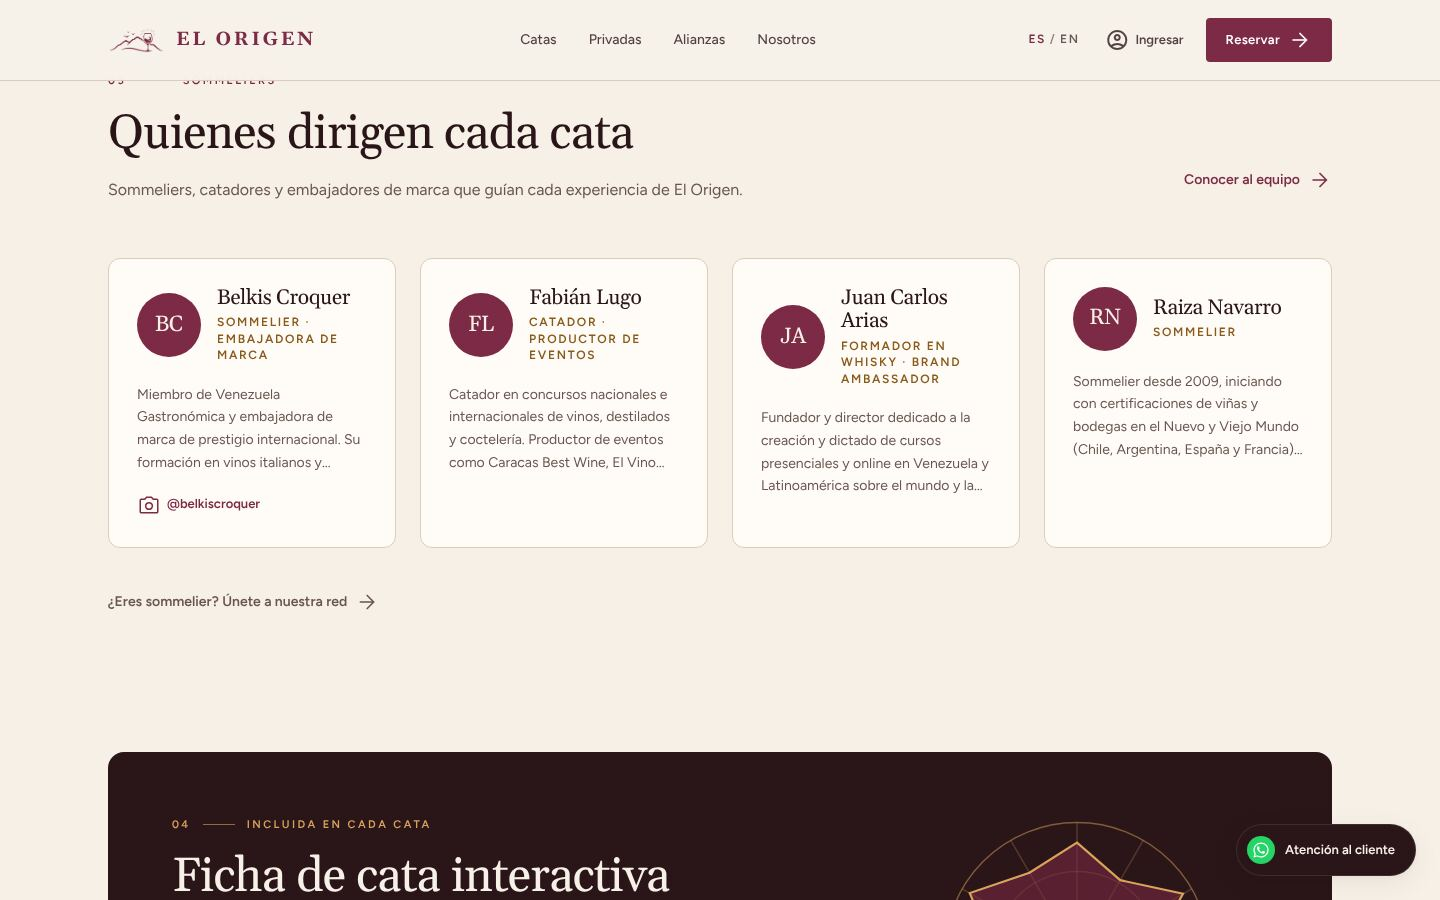
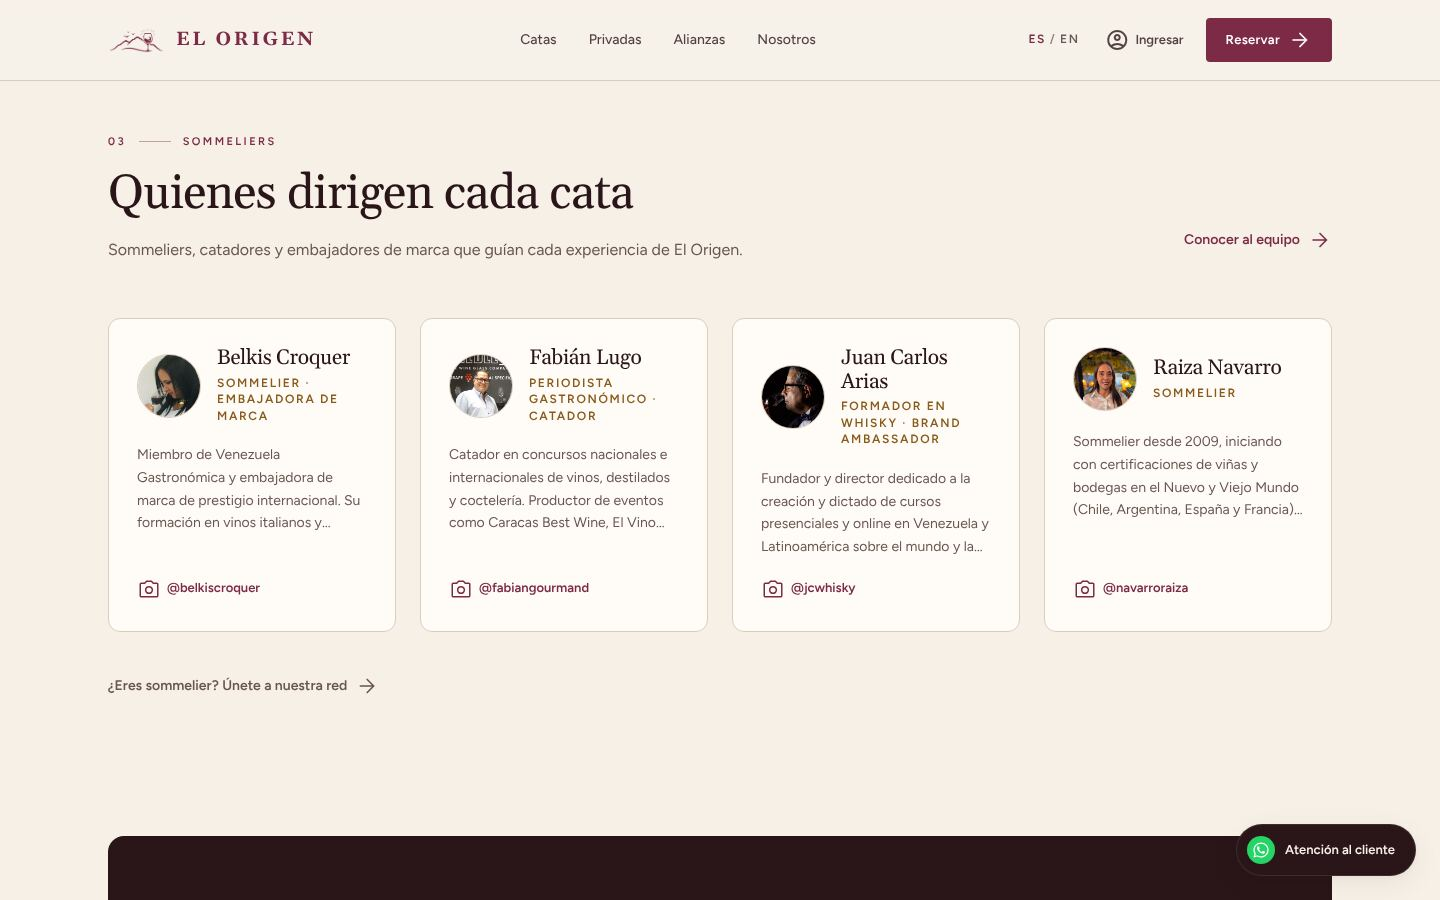
fix: correcciones de la revisión (enlace de Binance, fotos y pendientes)
- Binance: una configuración de pagos guardada antes del cambio recibe el enlace de
  cobro por defecto; si el admin lo borra, se guarda "" y se respeta. El titular se
  muestra también cuando solo hay enlace. La librería del QR se carga solo al
  mostrarlo, así la portada y las catas no la descargan.
- Fotos de los sommeliers también en la guía de audio de la cata en vivo y en el
  selector del formulario de catas. Foto de Belkis recentrada.
- Pendientes: cargo exacto de Belkis, Juan Carlos y Raiza; nombre, rubro e Instagram
  de Empresa Paul; Instagram de Dimasi Wine (¿Dimasi o Di Massi?).
- Demo: capturas de sommeliers con sus fotos y nuevo paso del pago con Binance.

Claude-Session: https://claude.ai/code/session_01DmWaZbrVJ9PmrNgr1DFTeL

diff --git a/src/components/AudioGuidePlayer.tsx b/src/components/AudioGuidePlayer.tsx
@@ -30,14 +30,15 @@ interface AudioGuidePlayerProps {
   lang: Language;
   title: string;
   storyText: string;
-  /** Sommelier que guía la cata (se muestra con monograma mientras no haya foto). */
+  /** Sommelier que guía la cata (se muestra con su foto o, si no tiene, con monograma). */
   guideName?: string;
   guideRole?: string;
+  guidePhotoUrl?: string;
   /** Idioma en que está escrito el texto (los textos del admin están en español). */
   textLang?: Language;
 }
 
-export function AudioGuidePlayer({ lang, title, storyText, guideName, guideRole, textLang = "es" }: AudioGuidePlayerProps) {
+export function AudioGuidePlayer({ lang, title, storyText, guideName, guideRole, guidePhotoUrl, textLang = "es" }: AudioGuidePlayerProps) {
   const t = COPY[lang];
   const [supported, setSupported] = useState(true);
   const [speaking, setSpeaking] = useState(false);
@@ -102,12 +103,17 @@ export function AudioGuidePlayer({ lang, title, storyText, guideName, guideRole,
     <section className="rounded-2xl border border-outline-variant bg-surface-container-lowest p-5 sm:p-6">
       <div className="flex flex-col sm:flex-row sm:items-center justify-between gap-4">
         <div className="flex items-center gap-3.5 min-w-0">
-          <span
-            className="w-12 h-12 rounded-full bg-primary-container text-white font-serif text-[17px] flex items-center justify-center flex-shrink-0"
-            aria-hidden="true"
-          >
-            {guideName ? teamInitials(guideName) : <span className="material-symbols-outlined">record_voice_over</span>}
-          </span>
+          {guidePhotoUrl ? (
+            // eslint-disable-next-line @next/next/no-img-element
+            <img src={guidePhotoUrl} alt="" className="w-12 h-12 rounded-full object-cover flex-shrink-0" />
+          ) : (
+            <span
+              className="w-12 h-12 rounded-full bg-primary-container text-white font-serif text-[17px] flex items-center justify-center flex-shrink-0"
+              aria-hidden="true"
+            >
+              {guideName ? teamInitials(guideName) : <span className="material-symbols-outlined">record_voice_over</span>}
+            </span>
+          )}
           <div className="min-w-0">
             <p className="eyebrow">{t.badge}</p>
             <h3 className="font-serif text-lg leading-tight mt-0.5 break-words">{title}</h3>

diff --git a/public/demo/index.html b/public/demo/index.html
@@ -162,6 +162,7 @@ footer { margin-top: 48px; font-size: 14px; color: var(--muted); display: flex; 
       <figure><div class="phone"><img src="/demo/img/m07-confirmar.jpg" alt="Confirmación con políticas" loading="lazy"></div><figcaption><b>Políticas y cupón</b>Acepta las políticas antes de pagar.</figcaption></figure>
       <figure><div class="phone"><img src="/demo/img/m08-orden-pago.jpg" alt="Elección del método de pago" loading="lazy"></div><figcaption><b>Método de pago</b>El cupo queda apartado 60 minutos.</figcaption></figure>
       <figure><div class="phone"><img src="/demo/img/m08b-datos-pago-movil.jpg" alt="Datos de Pago Móvil" loading="lazy"></div><figcaption><b>Datos para pagar</b>Con botón de copiar en cada dato.</figcaption></figure>
+      <figure><div class="phone"><img src="/demo/img/m08c-binance.jpg" alt="Pago con el QR de Binance" loading="lazy"></div><figcaption><b>O con Binance</b>Escanea el QR o abre Binance con un toque.</figcaption></figure>
       <figure><div class="phone"><img src="/demo/img/m09-comprobante.jpg" alt="Carga del comprobante" loading="lazy"></div><figcaption><b>Sube el comprobante</b>Referencia, monto y captura.</figcaption></figure>
       <figure><div class="phone"><img src="/demo/img/m10-en-revision.jpg" alt="Pago en revisión" loading="lazy"></div><figcaption><b>Pago en revisión</b>La página se actualiza sola al aprobarse.</figcaption></figure>
     </div>
@@ -262,7 +263,8 @@ footer { margin-top: 48px; font-size: 14px; color: var(--muted); display: flex; 
         <li><b>Pago Móvil:</b> si el número termina en 38.38 o en 38.48.</li>
         <li><b>Titular</b> de las cuentas y si se muestra en la página.</li>
         <li><b>Cupón 2ORIGEN:</b> el porcentaje de descuento definitivo.</li>
-        <li><b>Aliados:</b> el Instagram de Dimasi Wine y el rubro de Empresa Paul.</li>
+        <li><b>Sommeliers:</b> el cargo exacto de Belkis, Juan Carlos y Raiza.</li>
+        <li><b>Aliados:</b> nombre comercial, rubro e Instagram de Empresa Paul, y el Instagram de Dimasi Wine (¿se escribe Dimasi o Di Massi?).</li>
         <li><b>Correo público:</b> experiencethewine22 o ventasorigen.</li>
       </ul>
     </div>

diff --git a/src/app/admin/catas/CataForm.tsx b/src/app/admin/catas/CataForm.tsx
@@ -605,9 +605,14 @@ export function CataForm({ source, mode, heldSpots = 0, rates, onClose, onSaved 
                 return (
                   <label key={m.id} className={`flex items-center gap-3 min-h-[56px] px-3 rounded border cursor-pointer ${checked ? "border-primary-container bg-primary-fixed/50" : "border-outline-variant"}`}>
                     <input type="checkbox" checked={checked} onChange={() => toggleSommelier(m.id)} className="accent-[#7D2A46] w-4 h-4" />
-                    <span className="w-9 h-9 flex-shrink-0 rounded-full bg-primary-container text-white text-[12px] font-semibold flex items-center justify-center" aria-hidden="true">
-                      {teamInitials(m.name)}
-                    </span>
+                    {m.photoUrl ? (
+                      // eslint-disable-next-line @next/next/no-img-element
+                      <img src={m.photoUrl} alt="" className="w-9 h-9 flex-shrink-0 rounded-full object-cover" />
+                    ) : (
+                      <span className="w-9 h-9 flex-shrink-0 rounded-full bg-primary-container text-white text-[12px] font-semibold flex items-center justify-center" aria-hidden="true">
+                        {teamInitials(m.name)}
+                      </span>
+                    )}
                     <span className="min-w-0">
                       <span className="block text-[14px] font-semibold">{m.name}</span>
                       <span className="block text-[12px] text-on-surface-variant truncate">{m.role.es}</span>

diff --git a/src/lib/settings.ts b/src/lib/settings.ts
@@ -24,7 +24,7 @@ export interface PaymentConfig {
   transfers: TransferAccount[];
   /** PENDIENTE CLIENTE: titular de las cuentas (y si se muestra en la página). */
   holderName?: string;
-  /** `payLink`: enlace de cobro de Binance Pay (el sitio lo muestra como QR y como botón). */
+  /** `payLink`: enlace de cobro de Binance Pay (el sitio lo muestra como QR y como botón); "" = sin enlace. */
   binance: { enabled: boolean; payLink?: string; payId?: string; email?: string; holder?: string };
   /** `instructionsEn`: versión en inglés opcional (si falta, la página traduce solo el texto por defecto). */
   efectivo: { enabled: boolean; instructions: string; instructionsEn?: string };
@@ -114,7 +114,9 @@ export function normalizePaymentConfig(input: unknown): PaymentConfig {
   if (binanceEmail && !/^[^\s@]+@[^\s@]+\.[^\s@]+$/.test(binanceEmail)) {
     throw new PaymentConfigError("Binance: el correo no es válido.");
   }
-  const binancePayLink = optional(b.payLink, 300);
+  // Una configuración guardada antes de existir el campo no trae la clave: recibe el enlace por defecto.
+  // El panel siempre envía la clave, así que un "" guardado significa que se quitó a propósito.
+  const binancePayLink = b.payLink === undefined ? DEFAULT_PAYMENT_CONFIG.binance.payLink ?? "" : str(b.payLink, 300);
   if (binancePayLink && !isBinanceLink(binancePayLink)) {
     throw new PaymentConfigError("Binance: el enlace de cobro debe ser un enlace de Binance (https://app.binance.com/…).");
   }

diff --git a/src/components/PaymentDetails.tsx b/src/components/PaymentDetails.tsx
@@ -1,7 +1,6 @@
 "use client";
 
 import React, { useEffect, useState } from "react";
-import QRCode from "qrcode";
 import type { Language } from "@/lib/i18n";
 import type { PaymentConfig } from "@/lib/settings";
 import { whatsappLink } from "@/lib/contact";
@@ -161,7 +160,7 @@ export function PaymentDetails({ config, method, lang, selectedId, onSelect, cla
     const fields: Field[] = [];
     if (b.payId) fields.push({ name: t.payId, value: b.payId });
     if (b.email) fields.push({ name: t.email, value: b.email });
-    if (fields.length && b.holder) fields.push({ name: t.holder, value: b.holder });
+    if (b.holder && (fields.length || b.payLink)) fields.push({ name: t.holder, value: b.holder });
     if (fields.length) destinations = [{ id: "binance", title: "Binance USDT", fields }];
   }
 
@@ -252,7 +251,11 @@ function BinancePayQr({ link, lang }: { link: string; lang: Language }) {
 
   useEffect(() => {
     let alive = true;
-    QRCode.toDataURL(link, { width: 360, margin: 1, errorCorrectionLevel: "M", color: { dark: "#1E1E1E", light: "#FFFFFF" } })
+    // Carga diferida: formatUsd/formatBs de este módulo se usan en páginas sin QR.
+    import("qrcode")
+      .then(({ default: QRCode }) =>
+        QRCode.toDataURL(link, { width: 360, margin: 1, errorCorrectionLevel: "M", color: { dark: "#1E1E1E", light: "#FFFFFF" } })
+      )
       .then((url) => alive && setSrc(url))
       .catch(() => alive && setSrc(null));
     return () => {

diff --git a/src/app/cata-en-vivo/[token]/page.tsx b/src/app/cata-en-vivo/[token]/page.tsx
@@ -110,12 +110,12 @@ export default function LiveTastingPage() {
     return ticket ? [{ name: ticket.tastingTitle, vintage: "", type: "", description: "", aromaProfile: [] }] : [];
   }, [demo, t.demoProducts, tasting, ticket]);
 
-  const guides: CertificateSigner[] = useMemo(
+  const guides: (CertificateSigner & { photoUrl?: string })[] = useMemo(
     () =>
       (tasting?.sommelierIds ?? [])
         .map((id) => getTeamMember(id))
         .filter((m): m is NonNullable<typeof m> => Boolean(m))
-        .map((m) => ({ name: m.name, role: m.role[lang] })),
+        .map((m) => ({ name: m.name, role: m.role[lang], photoUrl: m.photoUrl })),
     [tasting, lang]
   );
 
@@ -290,6 +290,7 @@ export default function LiveTastingPage() {
               storyText={story}
               guideName={guide?.name}
               guideRole={guide?.role}
+              guidePhotoUrl={guide?.photoUrl}
               textLang={demo ? lang : "es"}
             />
           )}

diff --git a/src/components/PartnersSection.tsx b/src/components/PartnersSection.tsx
@@ -14,7 +14,8 @@ interface Partner {
 }
 
 /* Aliados de El Origen (lista del cliente, en su orden; rubro e Instagram de sus perfiles). */
-// PENDIENTE CLIENTE: usuario de Instagram de Dimasi Wine, y rubro e Instagram de "Empresa Paul".
+// PENDIENTE CLIENTE: nombre comercial exacto, rubro e Instagram de "Empresa Paul"; Instagram de Dimasi Wine
+// (confirmar si se escribe "Dimasi Wine" o "Di Massi", como aparece en la presentación de Raiza Navarro).
 const PARTNERS: Partner[] = [
   {
     name: "COCUY La Capilla",

diff --git a/src/lib/team.ts b/src/lib/team.ts
@@ -11,7 +11,8 @@ export interface TeamMember {
   photoUrl?: string;
 }
 
-// El rol se resume a partir de la presentación de cada uno y de su perfil de Instagram.
+// PENDIENTE CLIENTE: cargo exacto de Belkis Croquer, Juan Carlos Arias y Raiza Navarro (se resume de su
+// presentación). El de Fabián Lugo se tomó de su perfil de Instagram.
 export const TEAM: TeamMember[] = [
   {
     id: "belkis-croquer",
